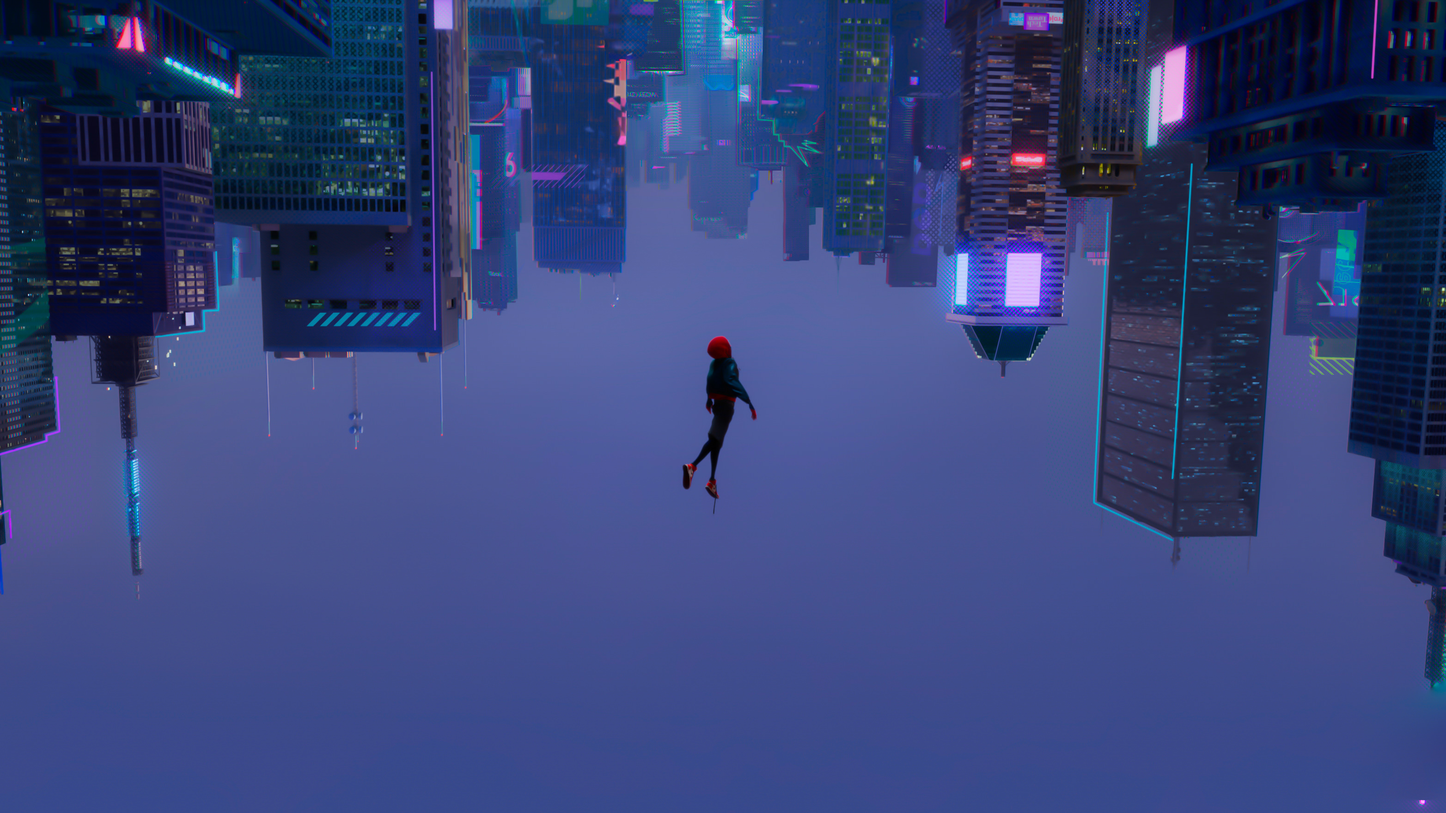
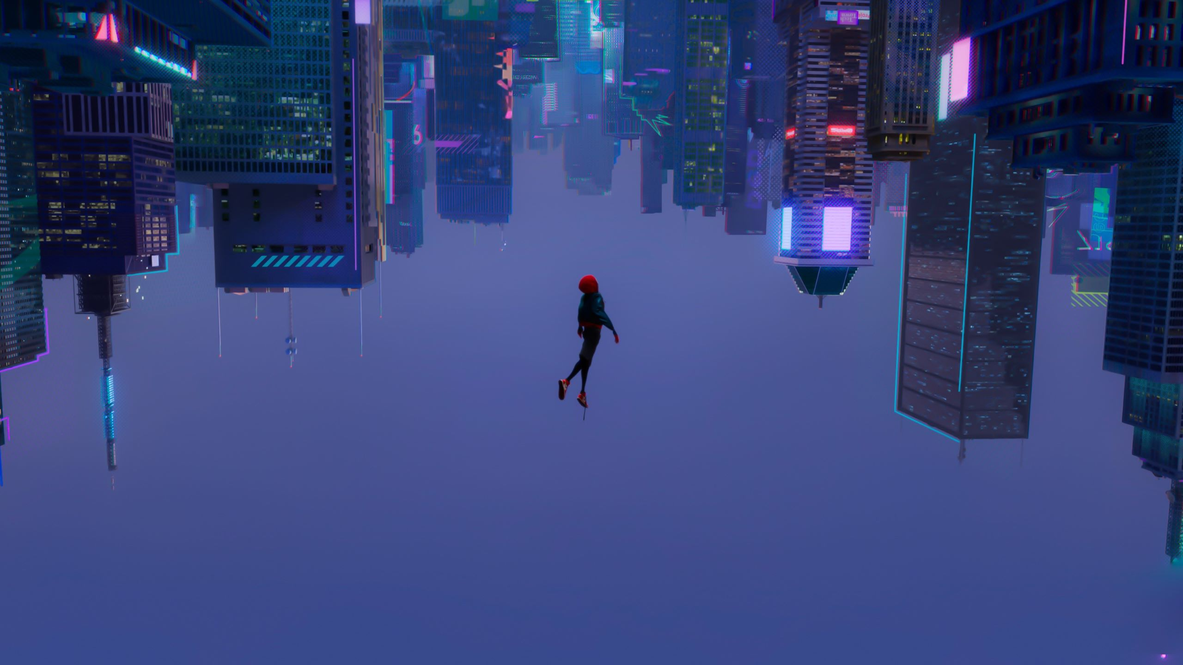
Site updated: 2024-01-08 11:34:08

diff --git a/2023/12/27/[CS]一些基本的Hexo指令/index.html b/2023/12/27/[CS]一些基本的Hexo指令/index.html
@@ -167,7 +167,7 @@
 
     <style>
       body{
-        background-image: url(/img/spiderman_bg.png);
+        background-image: url(/img/spiderman_bg.jpg);
       }
     </style>
 

diff --git a/2023/12/28/[FPV]网站导航/index.html b/2023/12/28/[FPV]网站导航/index.html
@@ -167,7 +167,7 @@
 
     <style>
       body{
-        background-image: url(/img/spiderman_bg.png);
+        background-image: url(/img/spiderman_bg.jpg);
       }
     </style>
 

diff --git a/2024/01/03/[CS]PicGo图床配置/index.html b/2024/01/03/[CS]PicGo图床配置/index.html
@@ -167,7 +167,7 @@
 
     <style>
       body{
-        background-image: url(/img/spiderman_bg.png);
+        background-image: url(/img/spiderman_bg.jpg);
       }
     </style>
 

diff --git a/2024/01/03/[FPV]通过wifi刷写elrs固件/index.html b/2024/01/03/[FPV]通过wifi刷写elrs固件/index.html
@@ -167,7 +167,7 @@
 
     <style>
       body{
-        background-image: url(/img/spiderman_bg.png);
+        background-image: url(/img/spiderman_bg.jpg);
       }
     </style>
 

diff --git a/2024/01/08/[CS]HTML基础/index.html b/2024/01/08/[CS]HTML基础/index.html
@@ -167,7 +167,7 @@
 
     <style>
       body{
-        background-image: url(/img/spiderman_bg.png);
+        background-image: url(/img/spiderman_bg.jpg);
       }
     </style>
 

diff --git a/archives/2023/12/index.html b/archives/2023/12/index.html
@@ -167,7 +167,7 @@
 
     <style>
       body{
-        background-image: url(/img/spiderman_bg.png);
+        background-image: url(/img/spiderman_bg.jpg);
       }
     </style>
 

diff --git a/archives/2023/index.html b/archives/2023/index.html
@@ -167,7 +167,7 @@
 
     <style>
       body{
-        background-image: url(/img/spiderman_bg.png);
+        background-image: url(/img/spiderman_bg.jpg);
       }
     </style>
 

diff --git a/archives/2024/01/index.html b/archives/2024/01/index.html
@@ -167,7 +167,7 @@
 
     <style>
       body{
-        background-image: url(/img/spiderman_bg.png);
+        background-image: url(/img/spiderman_bg.jpg);
       }
     </style>
 

diff --git a/archives/2024/index.html b/archives/2024/index.html
@@ -167,7 +167,7 @@
 
     <style>
       body{
-        background-image: url(/img/spiderman_bg.png);
+        background-image: url(/img/spiderman_bg.jpg);
       }
     </style>
 

diff --git a/archives/index.html b/archives/index.html
@@ -167,7 +167,7 @@
 
     <style>
       body{
-        background-image: url(/img/spiderman_bg.png);
+        background-image: url(/img/spiderman_bg.jpg);
       }
     </style>
 

diff --git a/categories/CS/index.html b/categories/CS/index.html
@@ -167,7 +167,7 @@
 
     <style>
       body{
-        background-image: url(/img/spiderman_bg.png);
+        background-image: url(/img/spiderman_bg.jpg);
       }
     </style>
 

diff --git a/categories/FPV/index.html b/categories/FPV/index.html
@@ -167,7 +167,7 @@
 
     <style>
       body{
-        background-image: url(/img/spiderman_bg.png);
+        background-image: url(/img/spiderman_bg.jpg);
       }
     </style>
 
